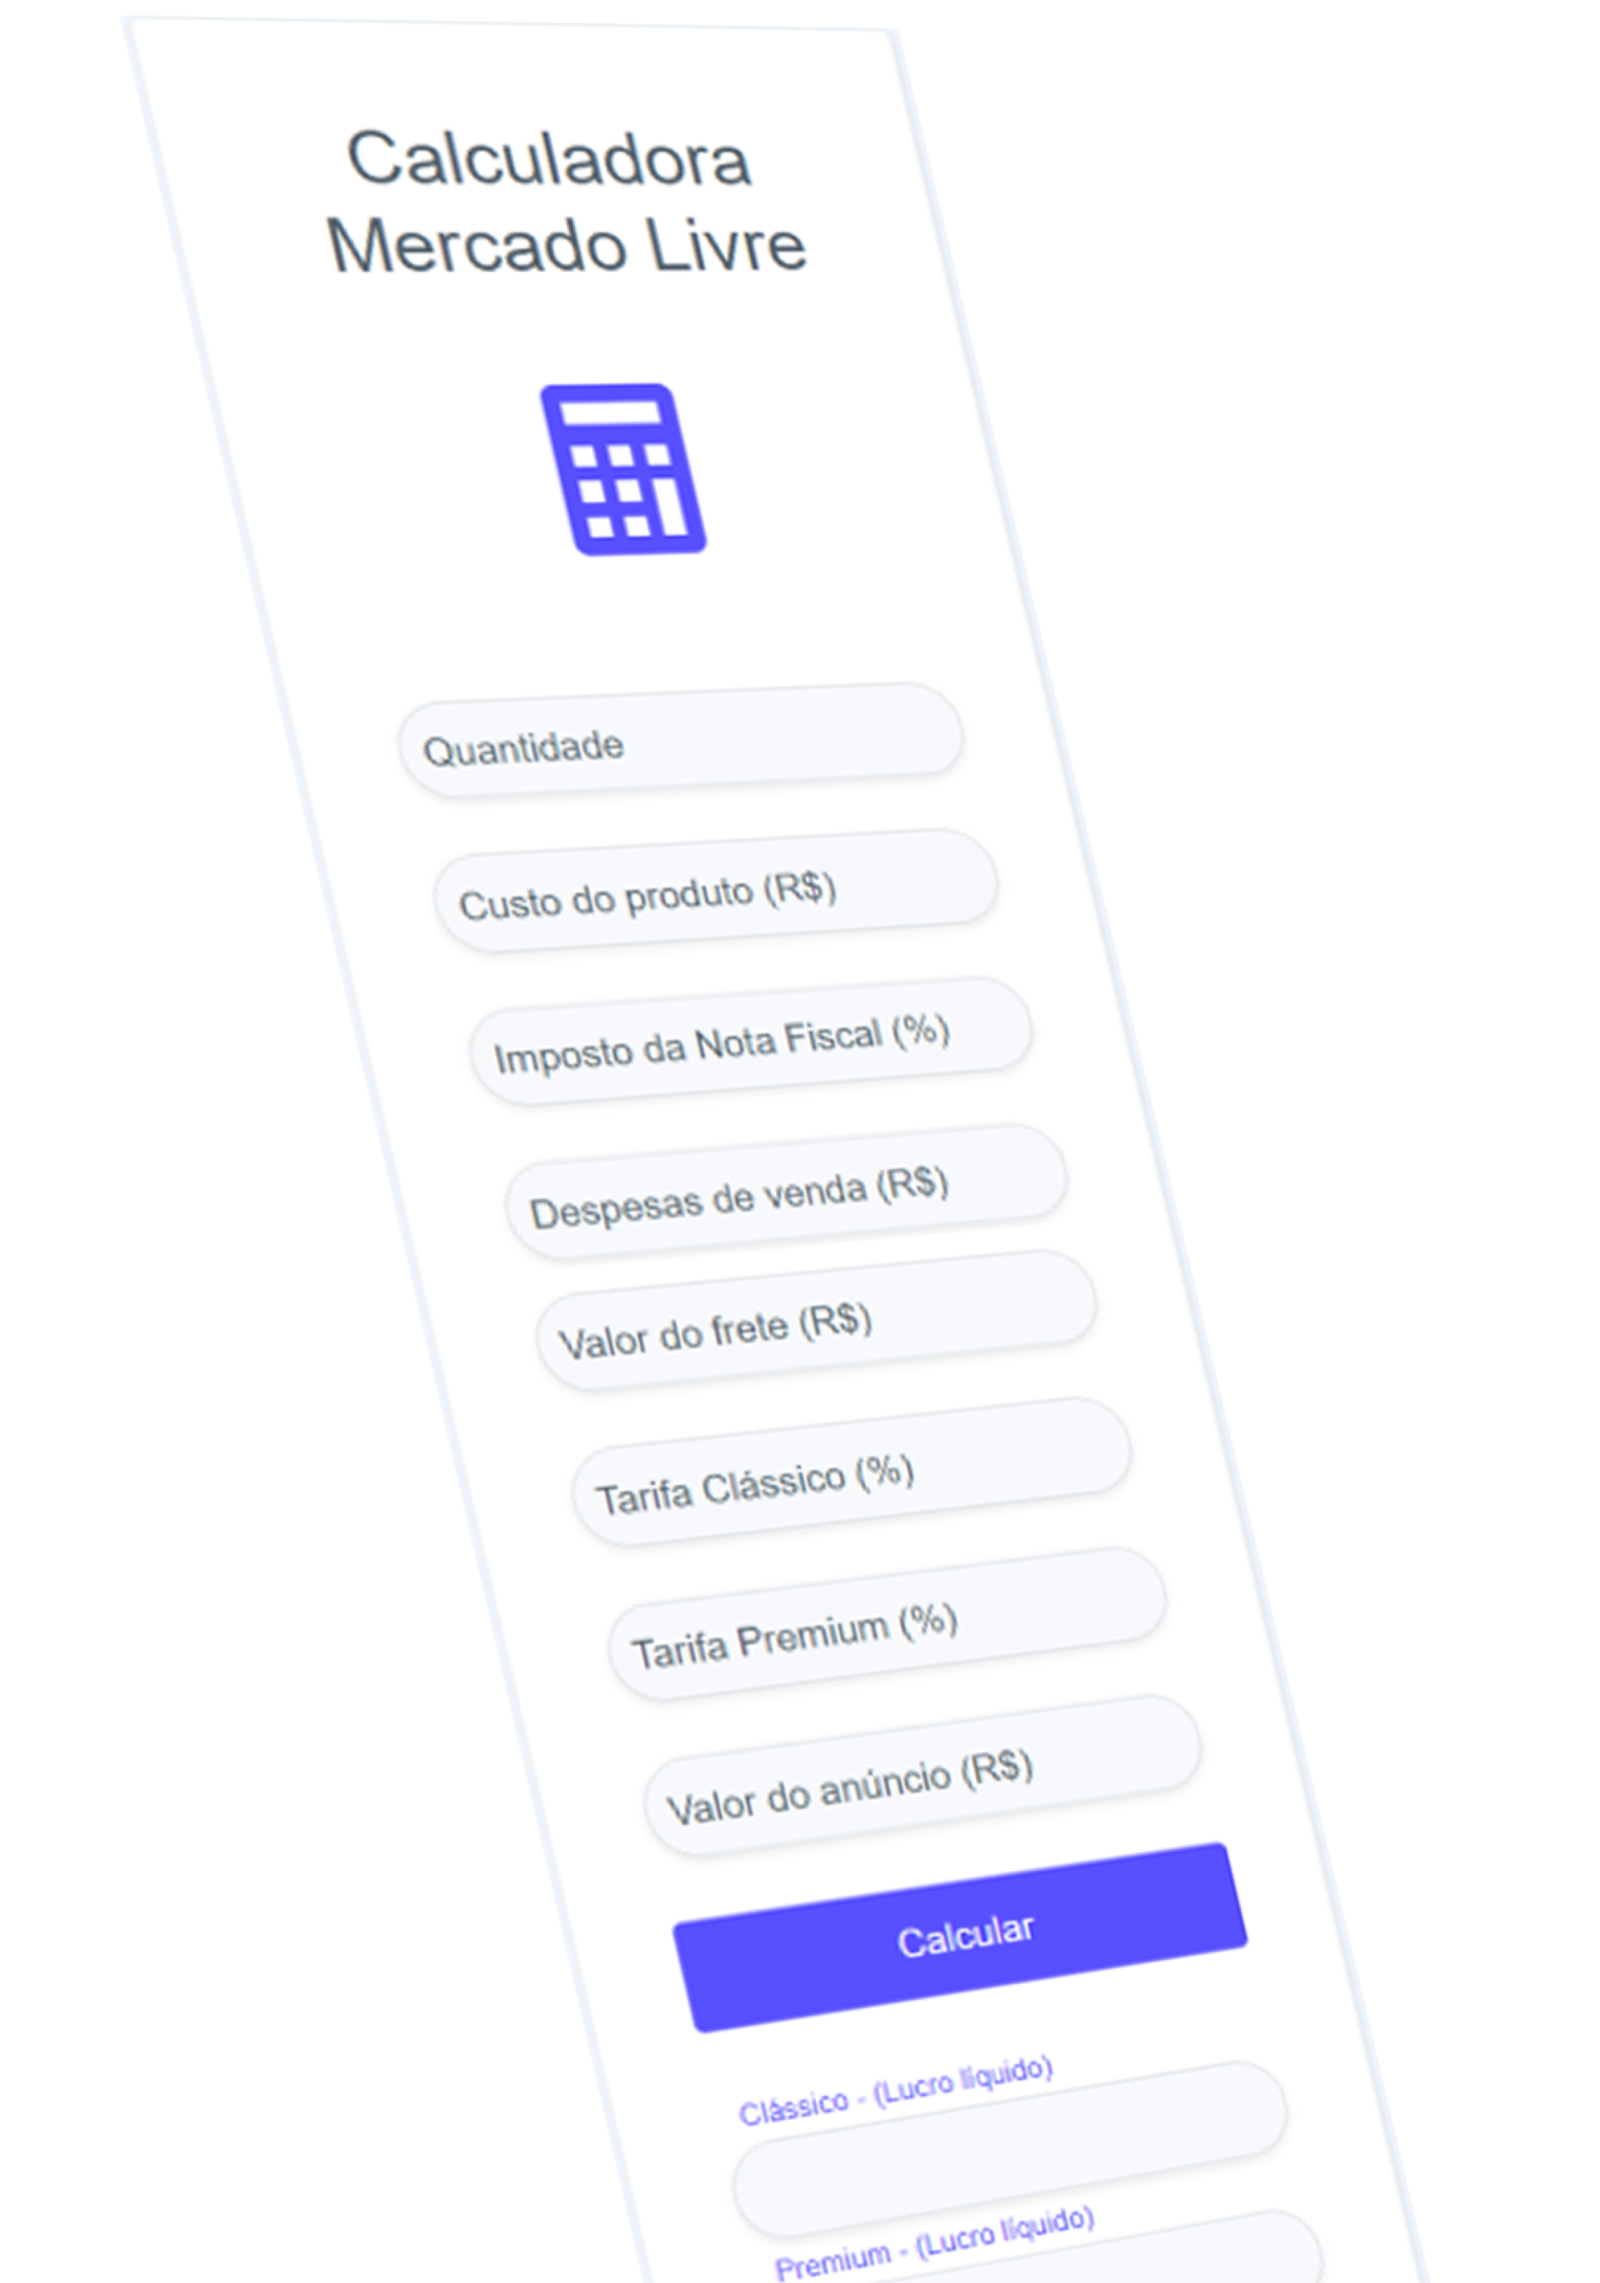
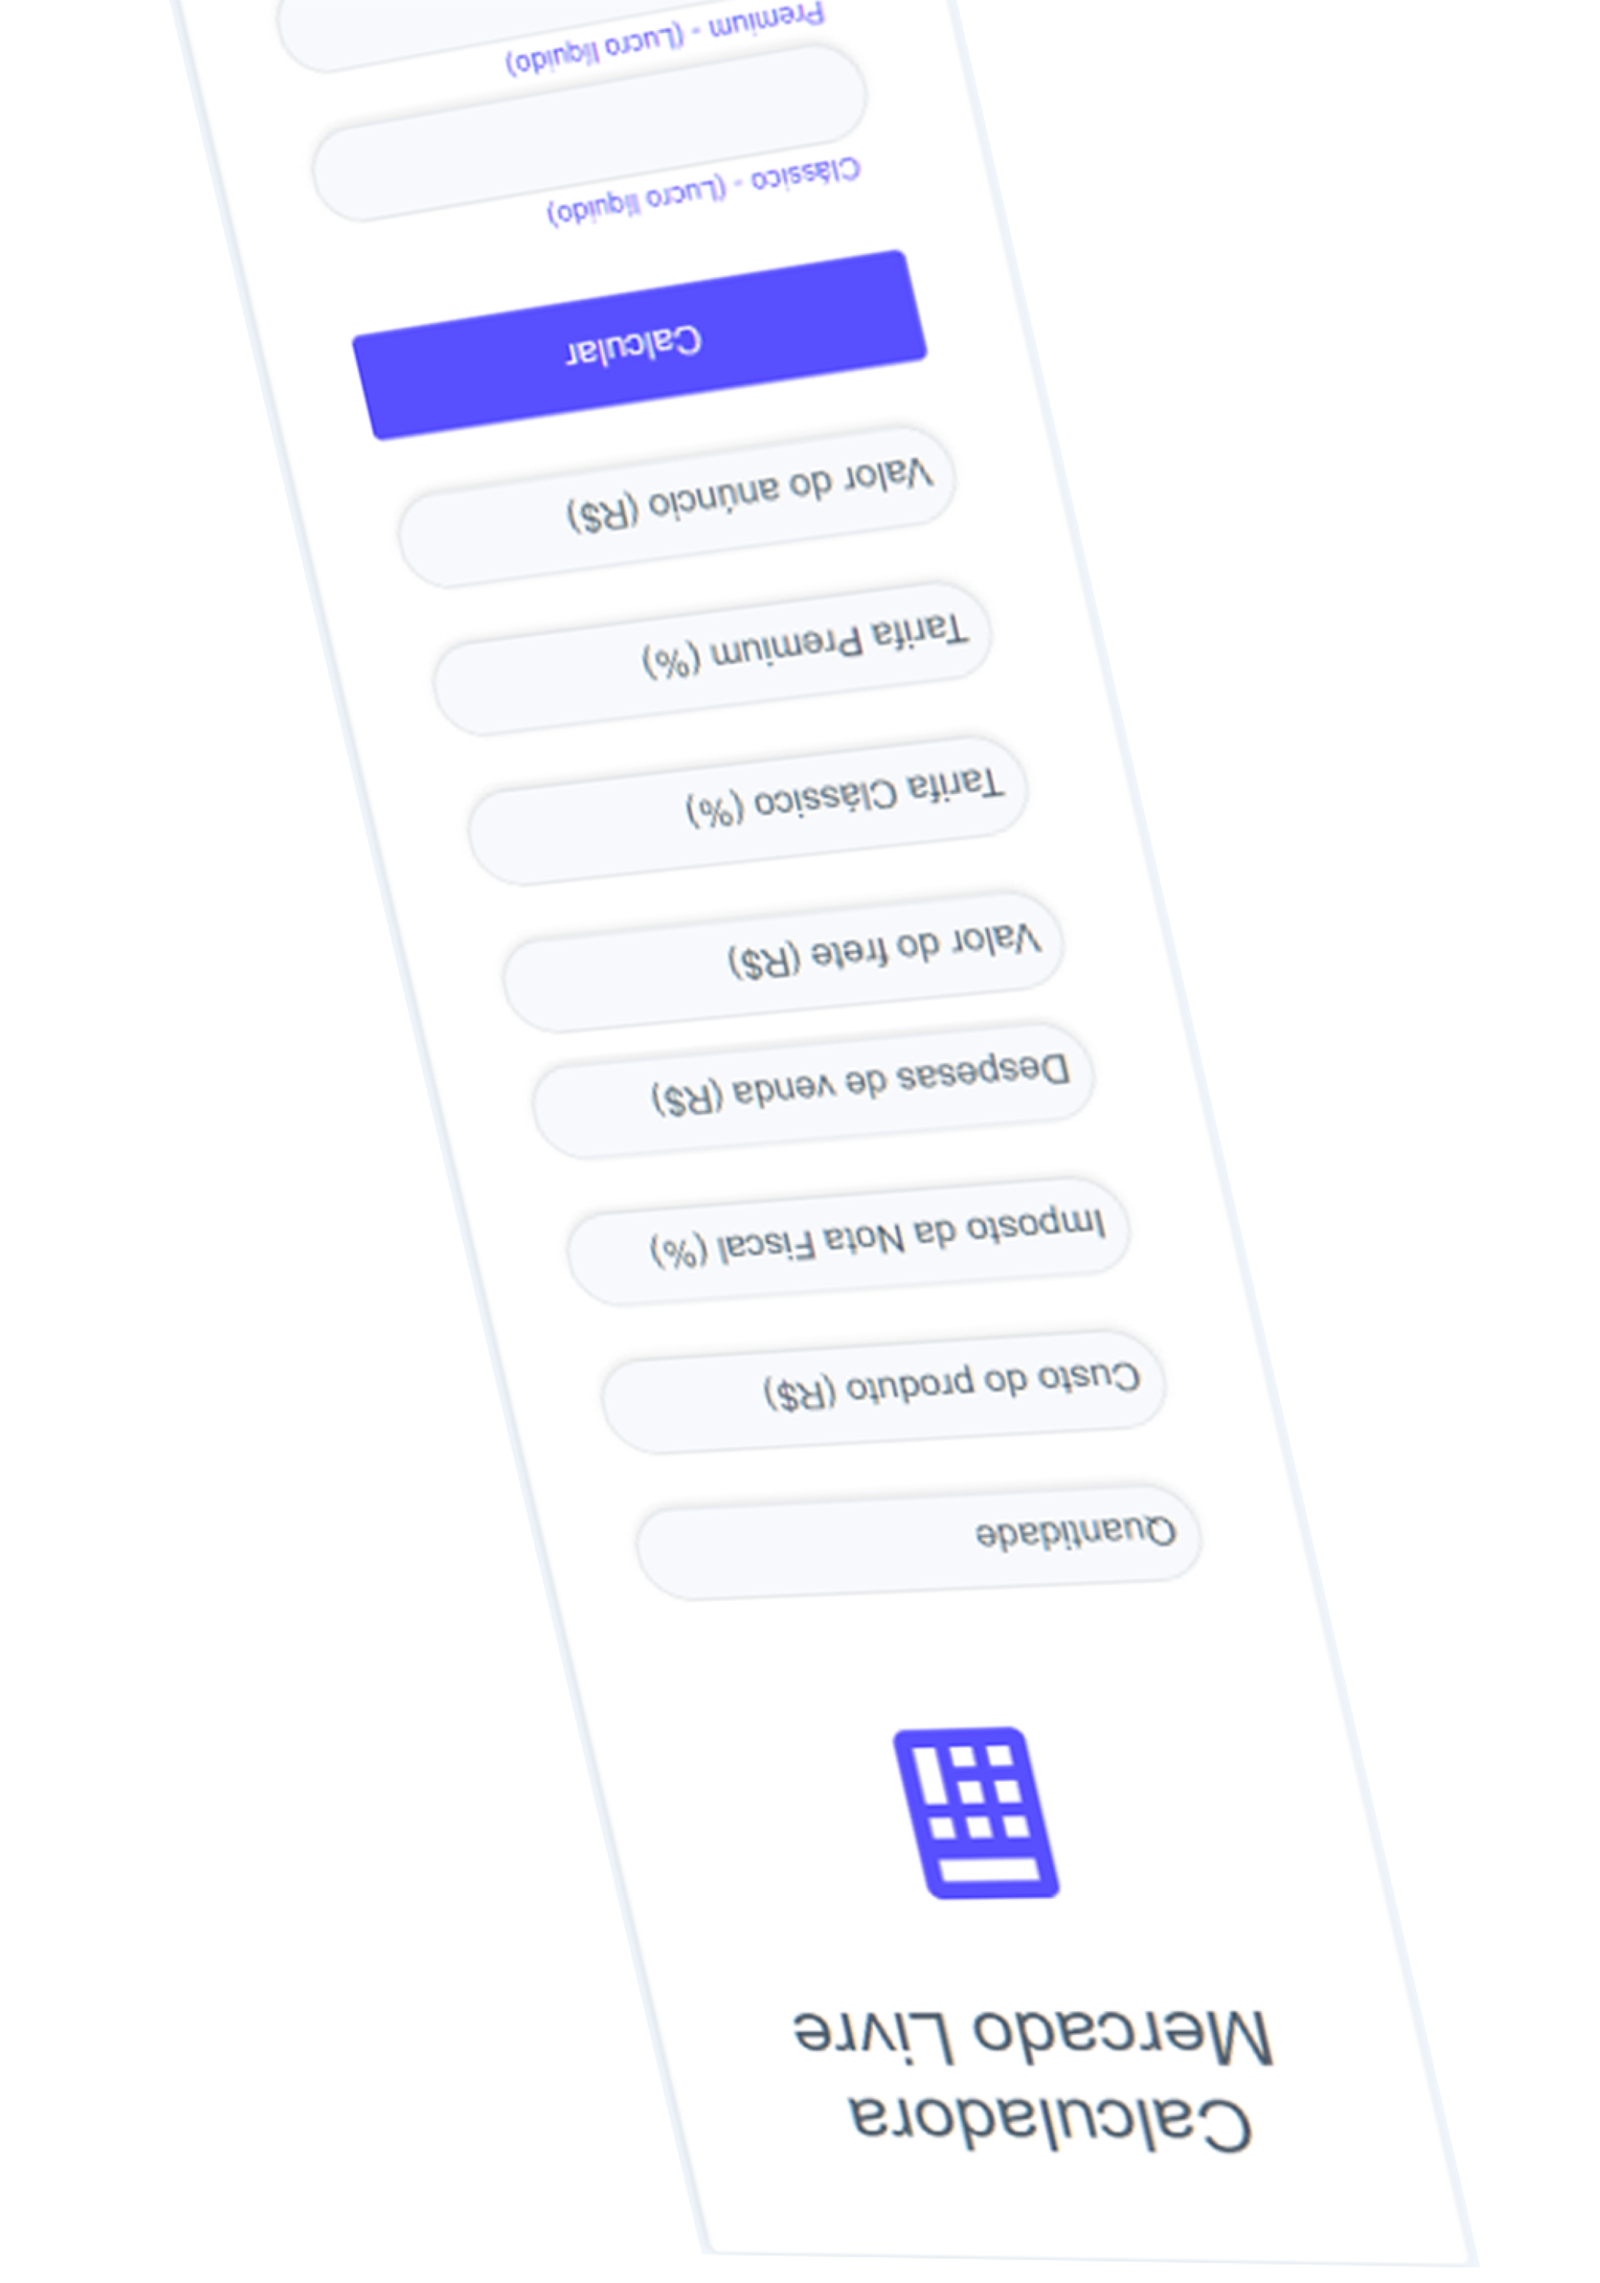
vai

diff --git a/src/componentes/inicio/Inicio.css b/src/componentes/inicio/Inicio.css
@@ -87,19 +87,21 @@ color: #898989;
 }
 
 .calcu{
-    width: 100%;
-    height: 100%;
+    
     z-index: -1;
     position: absolute;
+    right: 0;
     bottom: 0;
     padding-top: 10%;
+    
 }
 
 .calcu img{
-    width: 100%;
-    height: 100%;
+
     margin-top: 5%;
-    width: 500px;
+    width: 290px;
+    transform: skew(10deg);
+    transform: rotateX(10deg);
     padding-top: 5%;
     position: absolute;
     bottom: -7px; right: 300px;
@@ -123,7 +125,8 @@ color: #898989;
    bottom: 0; right: 0;
    width: 100vw;
    height: 100%;
-   background-image: url('/img/DesenhoSVG.png');
+   z-index: -3;
+   background-image: url('/svgs/Rectangle-7.svg');
    background-position: center;
    background-repeat: none;
    background-size: cover;
@@ -372,6 +375,7 @@ color: #898989;
 
     .calcu{
         width: 100%;
+        height: 100%;
         z-index: -1;
         position: absolute;
         bottom: 0; right: 0; top: 0;
@@ -381,6 +385,8 @@ color: #898989;
 
     
     .calcu img{
+        height: 100%;
+        width: 100%;
         position: absolute;
         bottom: 0px; right: 0px;
     }

diff --git a/src/componentes/inicio/Inicio.js b/src/componentes/inicio/Inicio.js
@@ -32,7 +32,7 @@ function Inicio(){
           </div>
 
           <div className='calcu'>
-            <img src='/img/calc.png'/>
+            <img src='/img/TESTE1.png'/>
           </div>
 
           
